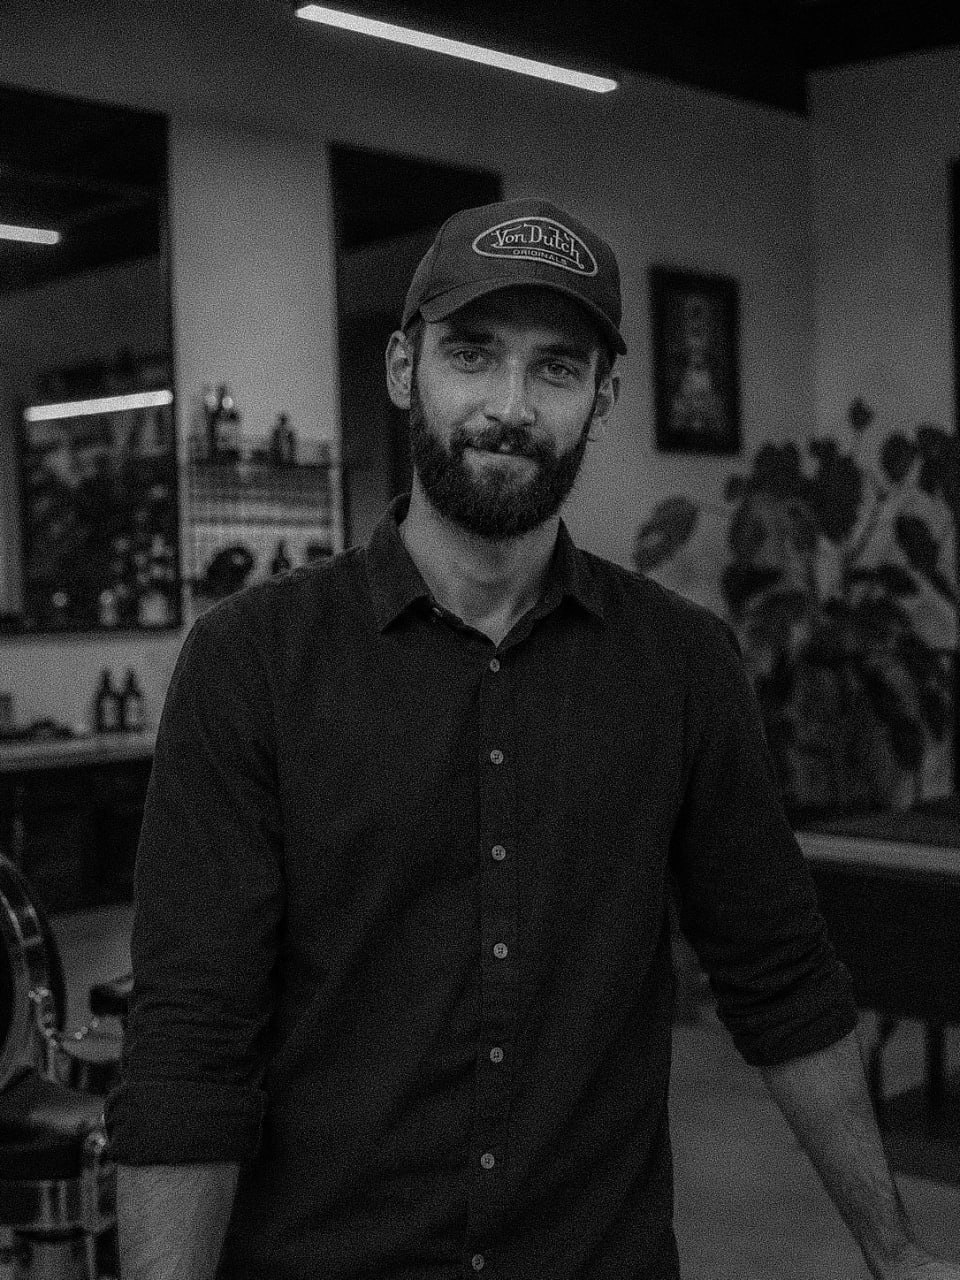
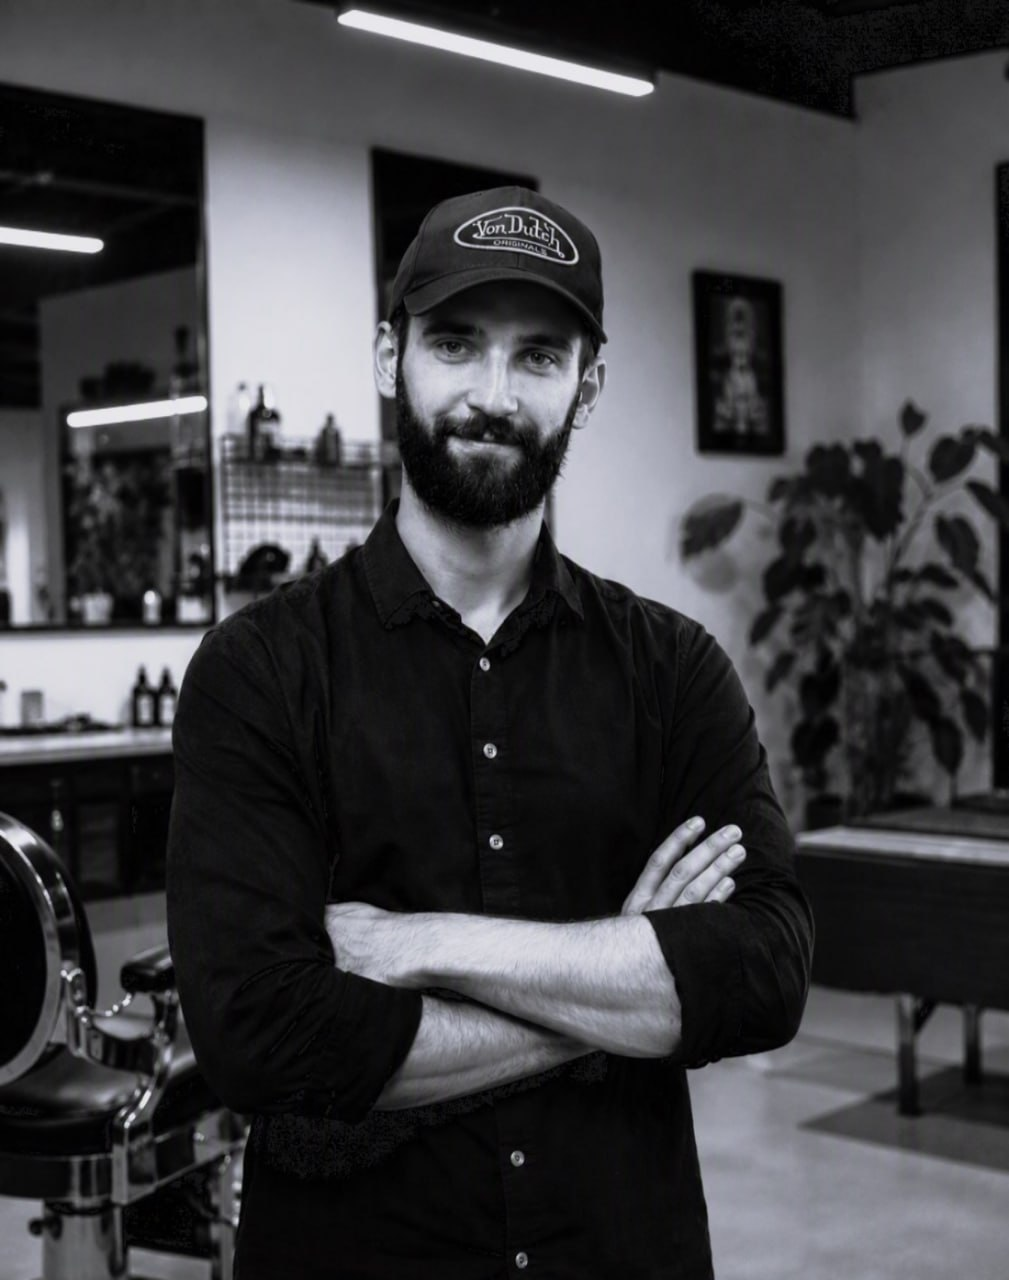
Update founder Edgars photo

diff --git a/css/barbers-v2.min.css b/css/barbers-v2.min.css
@@ -624,7 +624,7 @@
     margin: 0;
     overflow: hidden;
     border: 1px solid rgba(255, 255, 255, .14);
-    background: #111 url("../img/founder-edgars.jpg?v=20260720-edgars") center 18% / cover no-repeat;
+    background: #111 url("../img/founder-edgars.jpg?v=20260721-edgars-photo") center 18% / cover no-repeat;
 }
 
 .v2-founder-copy {
